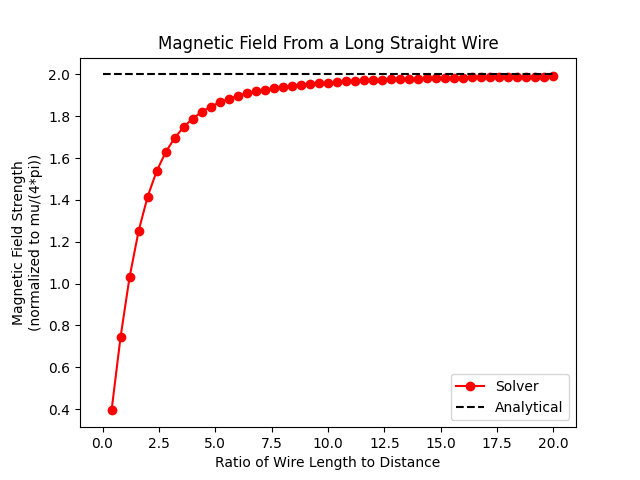
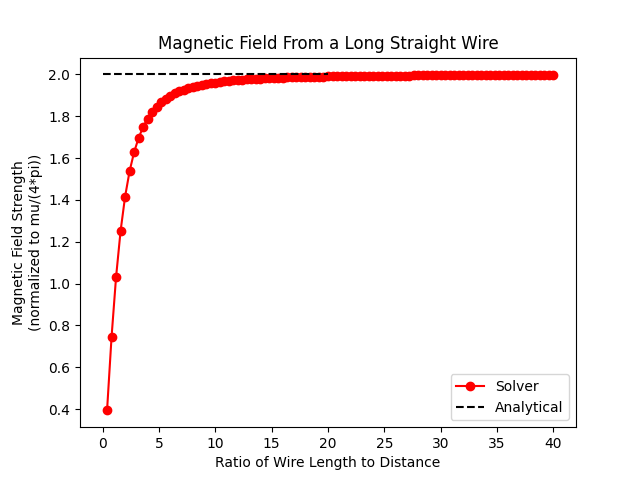
Added plots with convergence plots

diff --git a/HW4_3.py b/HW4_3.py
@@ -42,7 +42,7 @@ if __name__ == '__main__':
     '''
     # I am setting a static area of 0.04
     startNumSections = 2
-    endNumSections = 11
+    endNumSections = 16
     areas = 1 / (np.arange(startNumSections, endNumSections) ** 2)
     magneticFluxes = []
     for sectionArea in areas:
@@ -65,8 +65,8 @@ if __name__ == '__main__':
         # cumulativeRadii = np.zeros(numRadii + 2)
         # cumulativeRadii[1:] = edgeRadii
         # x = (cumulativeRadiiSquared[2:] - cumulativeRadiiSquared[:-2]) / 2  # This is a moving average
-        #
-        # x = np.sqrt(edgeRadii[1:]*edgeRadii[:-1])
+
+        x = np.sqrt(edgeRadii[1:]*edgeRadii[:-1])
 
         y = np.zeros_like(numRadii)
         points = np.full((numRadii, dims), ringHt, dtype=np.float64)
